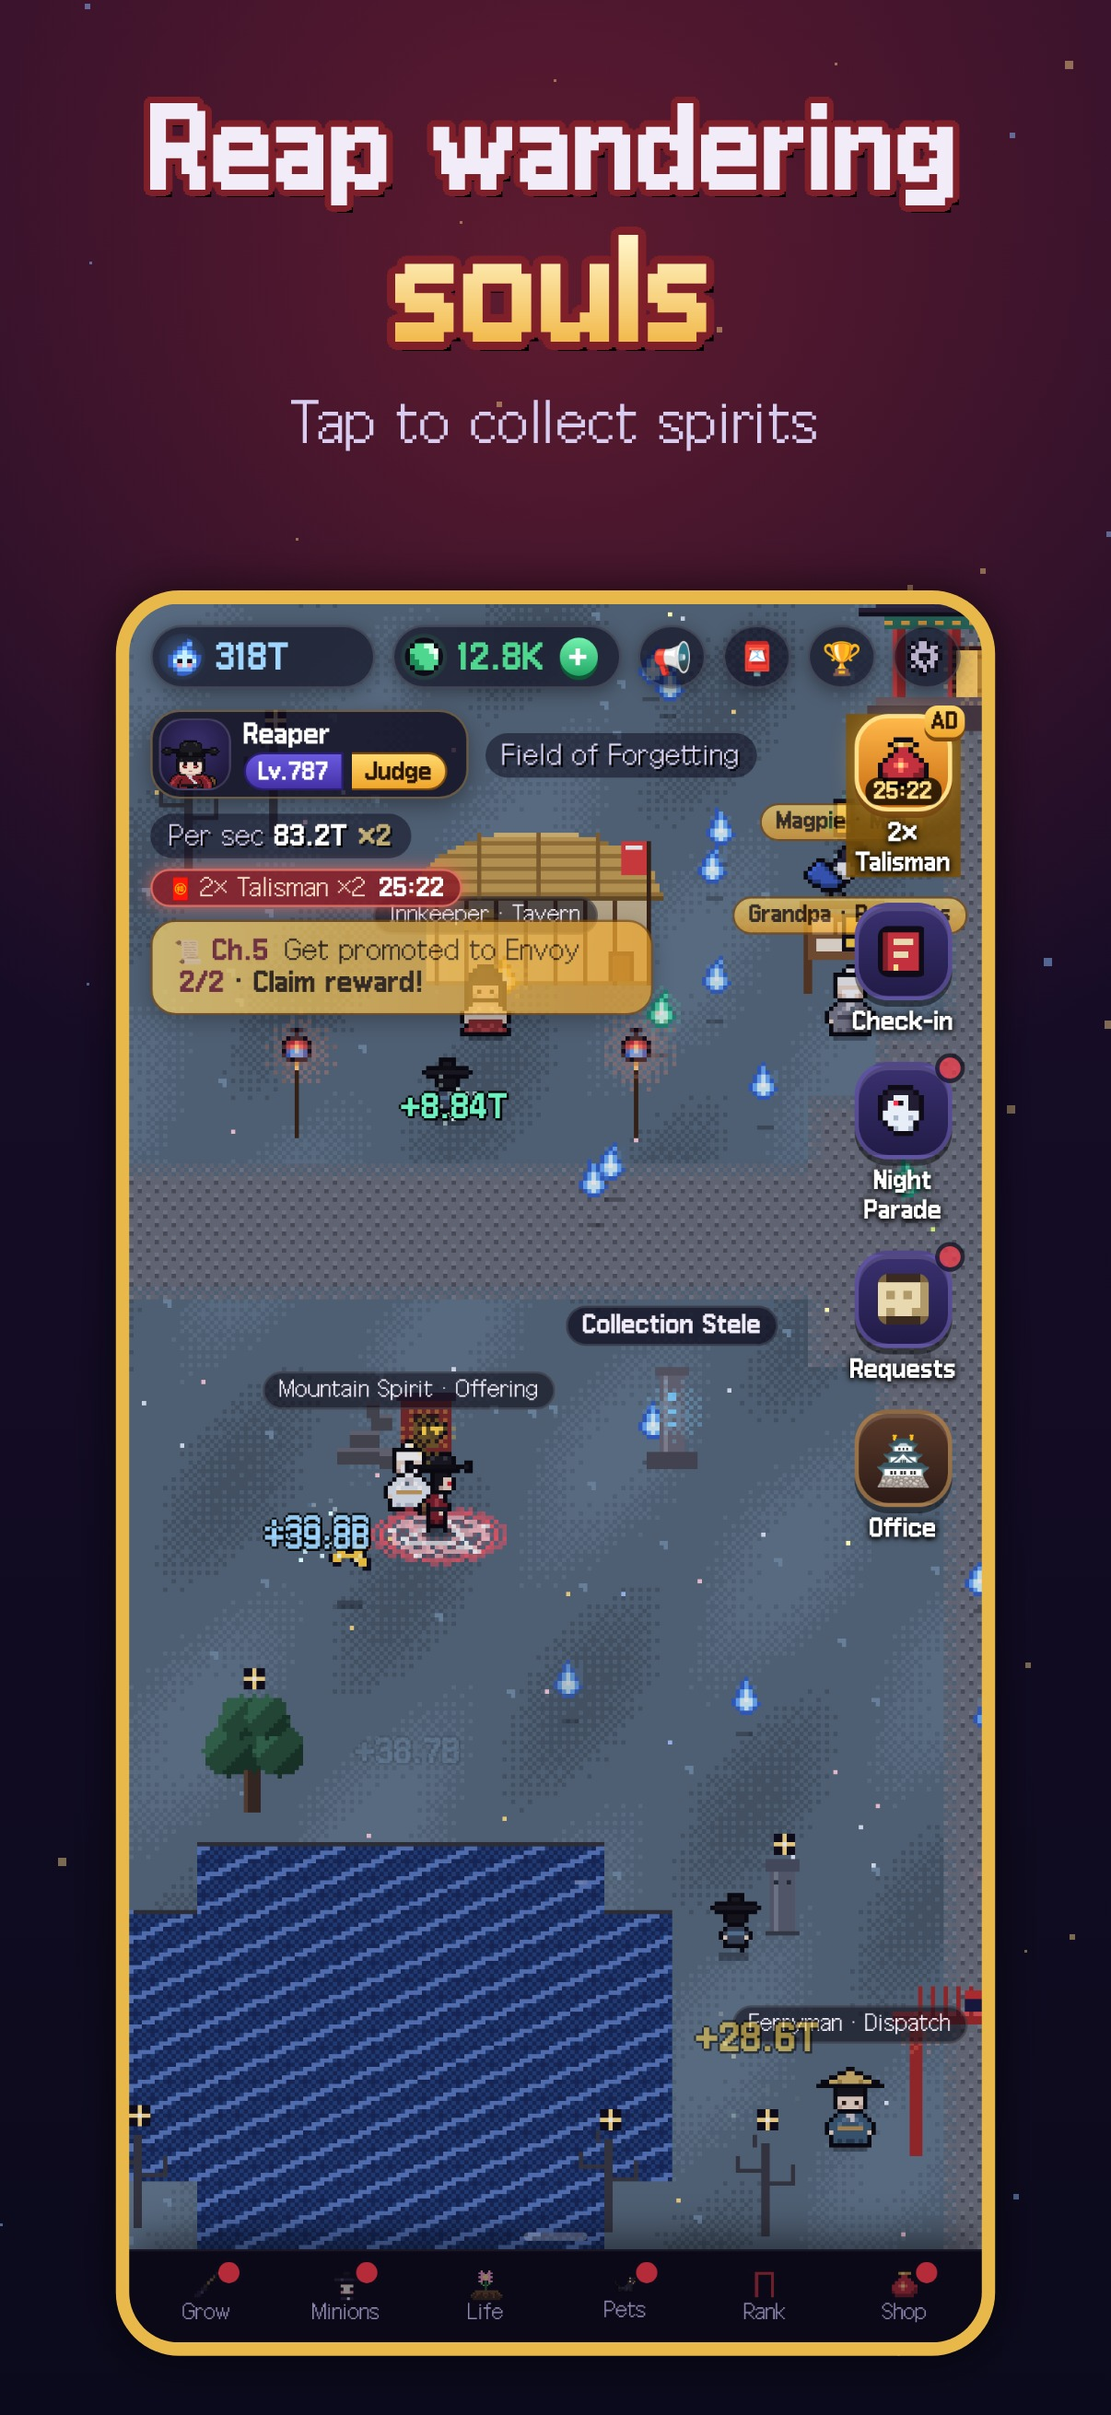
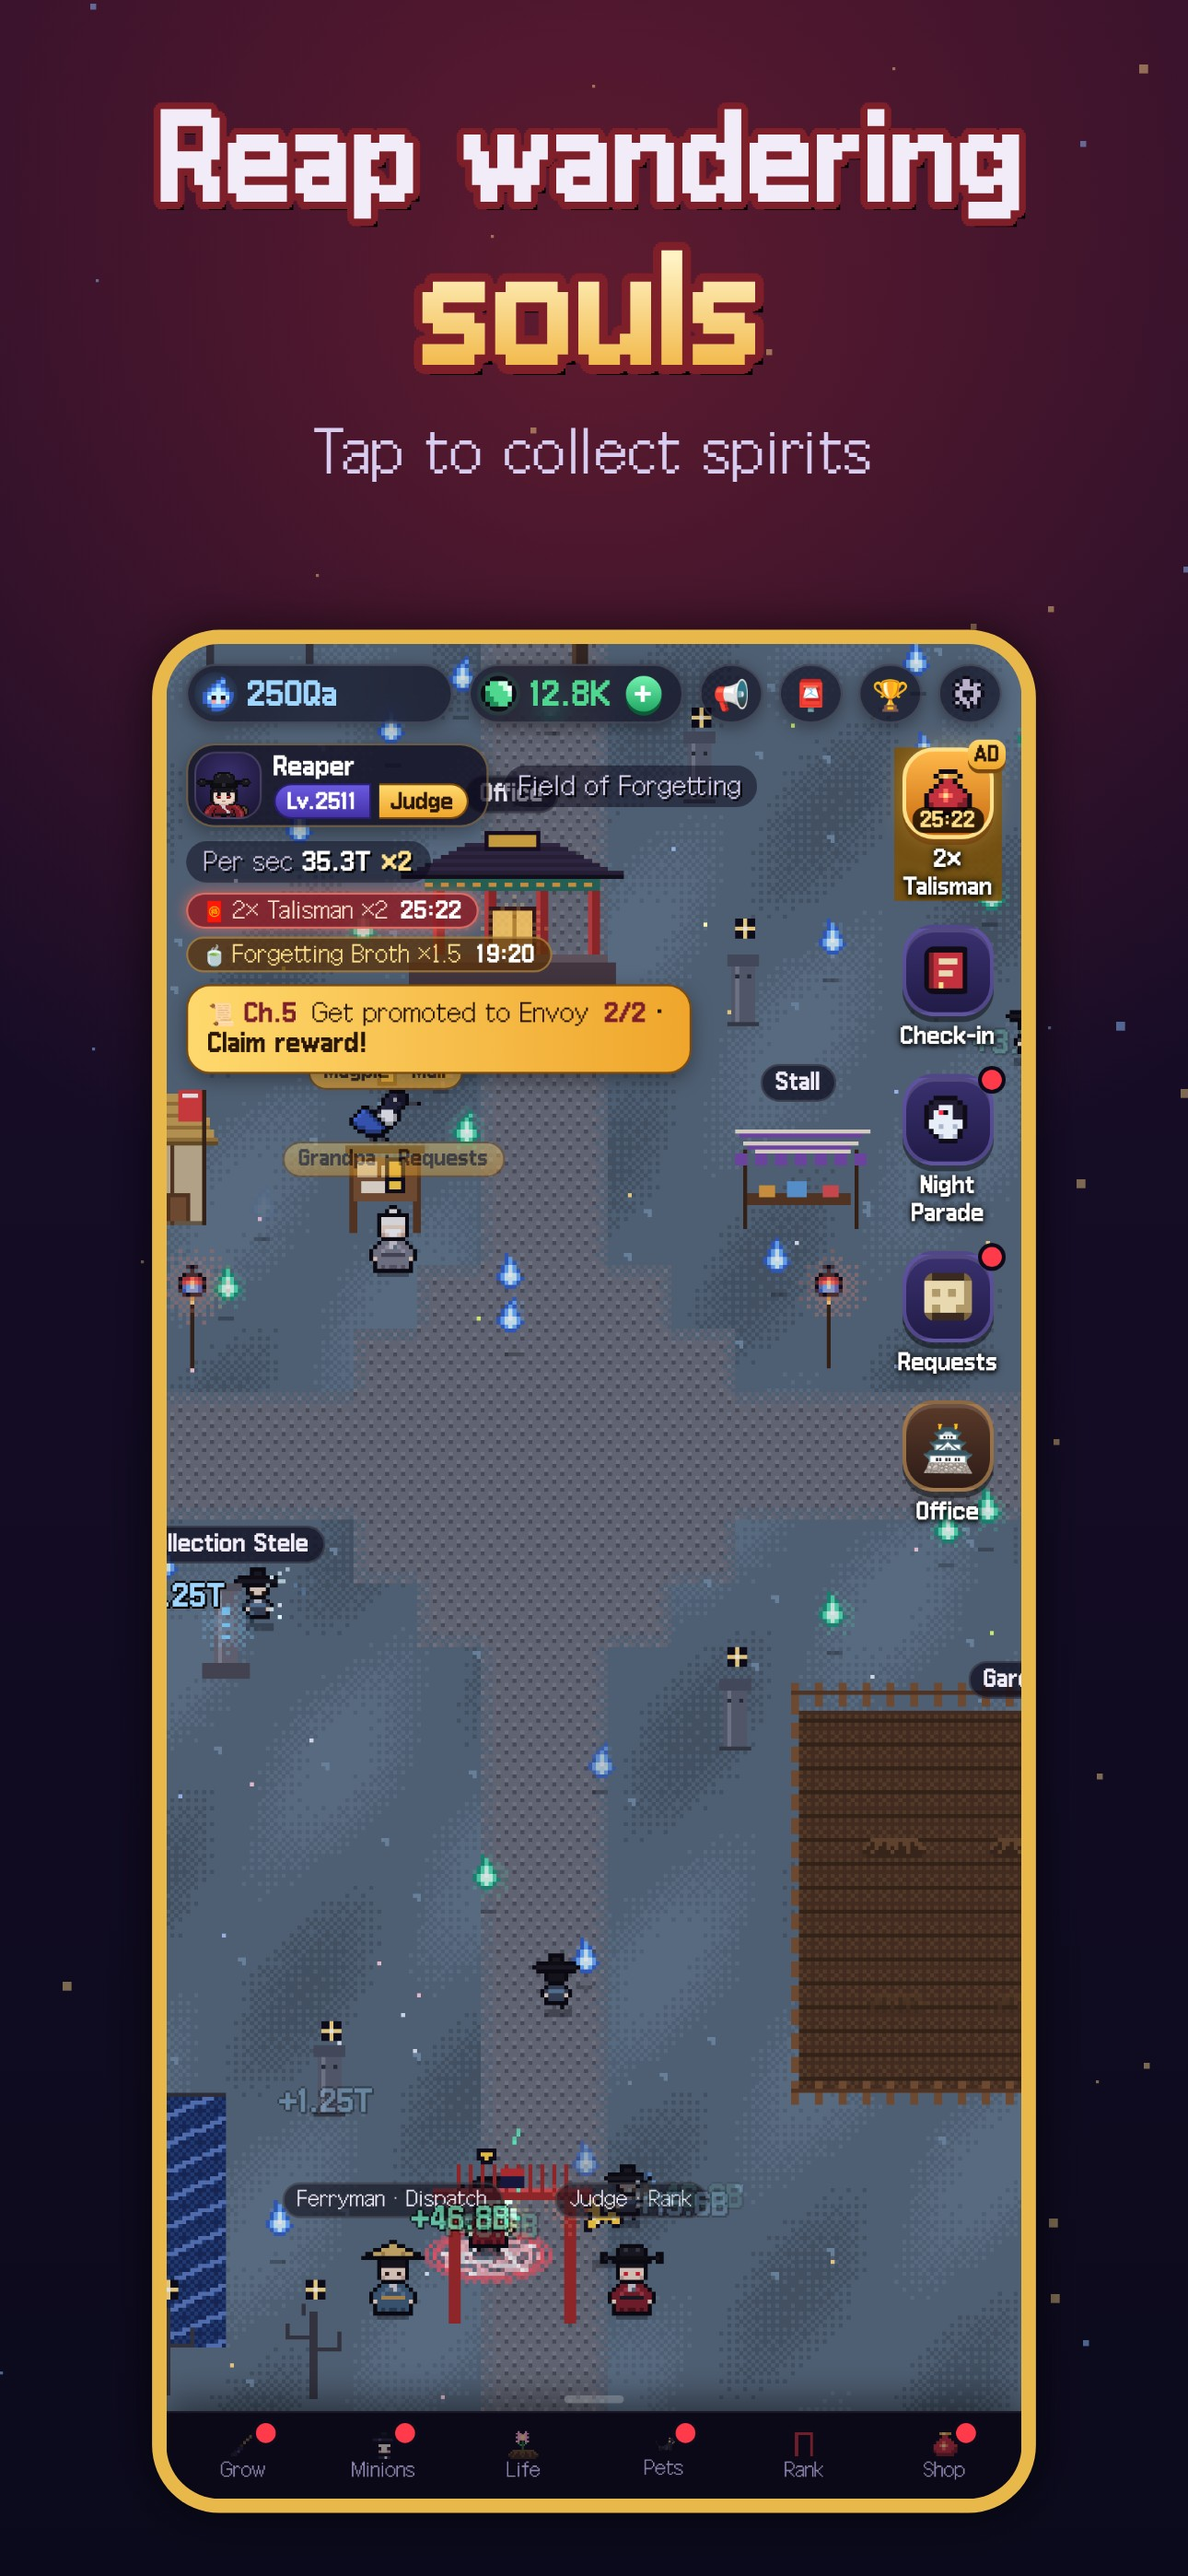
Reaper iOS: iPhone-only target, 6.9-inch (1290x2796) App Store screenshots in 5 languages
Claude-Session: https://claude.ai/code/session_01JaPanueqCrKrVGBfKrPe2n

diff --git a/tools/store_shots_raw.js b/tools/store_shots_raw.js
@@ -3,13 +3,13 @@
 const {chromium}=require('playwright');const fs=require('fs');
 const ST=JSON.parse(fs.readFileSync('/tmp/claude-0/-home-user-gameju/a9e510cc-9039-5350-9a0b-cbc48e014662/scratchpad/prev/qaout/state3.json','utf8'));
 const NAMES={ko:'저승이',en:'Reaper',ja:'しにがみ',zh:'小鬼差'};
-const PLAT={ios:{w:402,h:820},and:{w:390,h:740}};
-const only=process.argv[2];
+const PLAT={ios:{w:430,h:932},and:{w:390,h:740}}; // ios ×3 = 1290×2796 (iPhone 6.9″)
+const only=process.argv[2], onlyPlat=process.argv[3];
 (async()=>{fs.mkdirSync('raw',{recursive:true});const b=await chromium.launch();
 for(const lang of ['ko','en','ja','zh']){ if(only&&only!==lang)continue;
- for(const [plat,vp] of Object.entries(PLAT)){
-  const st=JSON.parse(JSON.stringify(ST));Object.assign(st,{name:NAMES[lang],rank:5,souls:3.2e13,jade:12850,tickets:12,noticeHide:9e15,last:Date.now(),merchant:null,boostUntil:Date.now()+25*60e3+30e3,tut:'done',otut:'done',nickSet:true,story:{ch:4,q:0,intro:true}});
-  st.upg={pen:420,step:45,call:40,hand:35,luck:28,minion:24,drill:180,ledger:14};
+ for(const [plat,vp] of Object.entries(PLAT)){ if(onlyPlat&&onlyPlat!==plat)continue;
+  const st=JSON.parse(JSON.stringify(ST));Object.assign(st,{name:NAMES[lang],rank:5,souls:2.5e17,jade:12850,tickets:12,noticeHide:9e15,last:Date.now(),merchant:null,boostUntil:Date.now()+25*60e3+30e3,tut:'done',otut:'done',nickSet:true,story:{ch:4,q:0,intro:true}});
+  st.upg={pen:1380,step:200,call:200,hand:200,luck:150,minion:40,drill:300,ledger:40}; // 레벨 2511 (판관)
   const c=await b.newContext({viewport:{width:vp.w,height:vp.h},deviceScaleFactor:3,locale:lang});
   await c.addInitScript(([l,s])=>{localStorage.setItem('reaper_lang',l);if(!sessionStorage.x){sessionStorage.x=1;localStorage.setItem('jeoseung_v1',s);}document.addEventListener('DOMContentLoaded',()=>{try{CLOUD.url=''}catch(e){}});},[lang,JSON.stringify(st)]);
   const p=await c.newPage();await p.goto('file:///home/user/gameju/reaper/index.html');await p.waitForSelector('#loading',{state:'detached',timeout:30000});await p.addStyleTag({content:'#toasts{display:none!important}'});await p.waitForTimeout(800);

diff --git a/tools/store_shots_compose.js b/tools/store_shots_compose.js
@@ -9,7 +9,7 @@ const CAP={
 };
 const RAWL={ko:'ko',en:'en',ja:'ja',zhs:'zh',zht:'zh'};
 const ORDER=[1,4,3,2,5];
-const SIZE={ios:[1206,2622],and:[1080,1920]};
+const SIZE={ios:[1290,2796],and:[1080,1920]}; // ios = iPhone 6.9″
 const TITLE={ko:['저승사자','키우기'],en:['Grim Reaper','Idle'],ja:['冥土の使者を','育てよう'],zhs:['冥府使者','养成记'],zht:['冥府使者','養成記']};
 const TSUB={ko:'혼을 거두고 염라대왕이 되자!',en:'Reap souls & rise to King Yeomra!',ja:'魂を集めて閻魔大王を目指そう!',zhs:'收集魂魄,晋升阎罗王!',zht:'收集魂魄,晉升閻羅王!'};
 (async()=>{const b=await chromium.launch({args:['--allow-file-access-from-files']});const p=await b.newPage();
@@ -51,9 +51,10 @@ const run=async(job)=>{const url=await p.evaluate(async j=>{
   }
   return c.toDataURL('image/png');},job);
   fs.writeFileSync(job.out,Buffer.from(url.split(',')[1],'base64'));};
-for(const lang of Object.keys(CAP)){for(const plat of ['ios','and']){for(let i=0;i<5;i++){const n=ORDER[i];
+const PLATS=(process.argv[2]||'ios,and').split(',');
+for(const lang of Object.keys(CAP)){for(const plat of PLATS){for(let i=0;i<5;i++){const n=ORDER[i];
   await run({kind:'shot',lang,plat,size:SIZE[plat],cap:CAP[lang][i],src:`file://${D}/raw/${RAWL[lang]}_${plat}_${n}.png`,seed:7+i,out:`${D}/out/${plat==='ios'?'iphone':'android'}_${lang}_${i+1}.png`});}}
-  await run({kind:'head',lang,size:[1024,500],title:TITLE[lang],sub:TSUB[lang],seed:3,out:`${D}/out/google_feature_${lang}.png`});
-  await run({kind:'head',lang,size:[1920,1080],title:TITLE[lang],sub:TSUB[lang],seed:5,out:`${D}/out/header_${lang}.png`});
+  if(PLATS.includes('and')){ await run({kind:'head',lang,size:[1024,500],title:TITLE[lang],sub:TSUB[lang],seed:3,out:`${D}/out/google_feature_${lang}.png`});
+  await run({kind:'head',lang,size:[1920,1080],title:TITLE[lang],sub:TSUB[lang],seed:5,out:`${D}/out/header_${lang}.png`}); }
   console.log(lang,'ok');}
 await b.close();})();

diff --git a/tools/build_store_text.py b/tools/build_store_text.py
@@ -234,7 +234,7 @@ md = ['# 저승사자 키우기 — 스토어 등록정보 (5개 언어)', '',
       '- 중국어: 구글은 `중국어(간체) zh-CN` · `중국어(번체) zh-TW`, 애플은 `简体中文` · `繁體中文` 를 각각 추가해요.', '']
 md += ['## 이미지 (언어별 폴더: `ko` · `en` · `ja` · `zh-CN` · `zh-TW`)', '',
        '| 파일 | 크기 | 넣는 곳 |', '|---|---|---|',
-       '| `iphone_1~5.jpg` | 1206×2622 | App Store Connect → 버전 → **iPhone 6.9″ / 6.3″ 디스플레이** 스크린샷 (순서대로) |',
+       '| `iphone_1~5.jpg` | 1290×2796 | App Store Connect → 버전 → **iPhone 6.9″ 디스플레이** 스크린샷 (순서대로, 다른 아이폰 크기는 자동) |',
        '| `android_1~5.jpg` | 1080×1920 | Play Console → 스토어 등록정보 → **휴대전화 스크린샷** |',
        '| `google_feature.jpg` | 1024×500 | Play Console → 스토어 등록정보 → **그래픽 이미지** |',
        '| `header.jpg` | 1920×1080 | 가로 헤더 · 배너가 필요한 곳 (애플 제품 페이지 헤더 · 홍보용 · SNS) |', '',

diff --git a/reaper/docs/RELEASE_CHECKLIST.md b/reaper/docs/RELEASE_CHECKLIST.md
@@ -58,7 +58,7 @@
 
 **애플**
 - [ ] 인앱 상품 16개(비소모성: starter_pack · remove_ads) — 가격 · 현지화 · 심사 스크린샷, 제출 준비 완료
-- [ ] 버전 화면: 스크린샷(iphone 1206×2622) · 설명 · 키워드 · 지원 URL · 출시용 빌드 선택 · 앱 내 구입 선택
+- [ ] 버전 화면: 스크린샷(iPhone 6.9″ 1290×2796, iphone_1~5.jpg) · 설명 · 키워드 · 지원 URL · 출시용 빌드 선택 · 앱 내 구입 선택
 - [ ] 앱 개인정보 보호(광고 ID = 추적에 사용됨) · 연령 등급 · 가격 및 사용 가능 국가
 - [ ] 심사 메모: "게스트로 시작하면 로그인 없이 모든 기능 확인 가능. 계정 삭제: 설정 → 계정 삭제"
 - [ ] 심사에 제출

diff --git a/reaper/docs/store/STORE_LISTING.md b/reaper/docs/store/STORE_LISTING.md
@@ -20,7 +20,7 @@
 
 | 파일 | 크기 | 넣는 곳 |
 |---|---|---|
-| `iphone_1~5.jpg` | 1206×2622 | App Store Connect → 버전 → **iPhone 6.9″ / 6.3″ 디스플레이** 스크린샷 (순서대로) |
+| `iphone_1~5.jpg` | 1290×2796 | App Store Connect → 버전 → **iPhone 6.9″ 디스플레이** 스크린샷 (순서대로, 다른 아이폰 크기는 자동) |
 | `android_1~5.jpg` | 1080×1920 | Play Console → 스토어 등록정보 → **휴대전화 스크린샷** |
 | `google_feature.jpg` | 1024×500 | Play Console → 스토어 등록정보 → **그래픽 이미지** |
 | `header.jpg` | 1920×1080 | 가로 헤더 · 배너가 필요한 곳 (애플 제품 페이지 헤더 · 홍보용 · SNS) |
